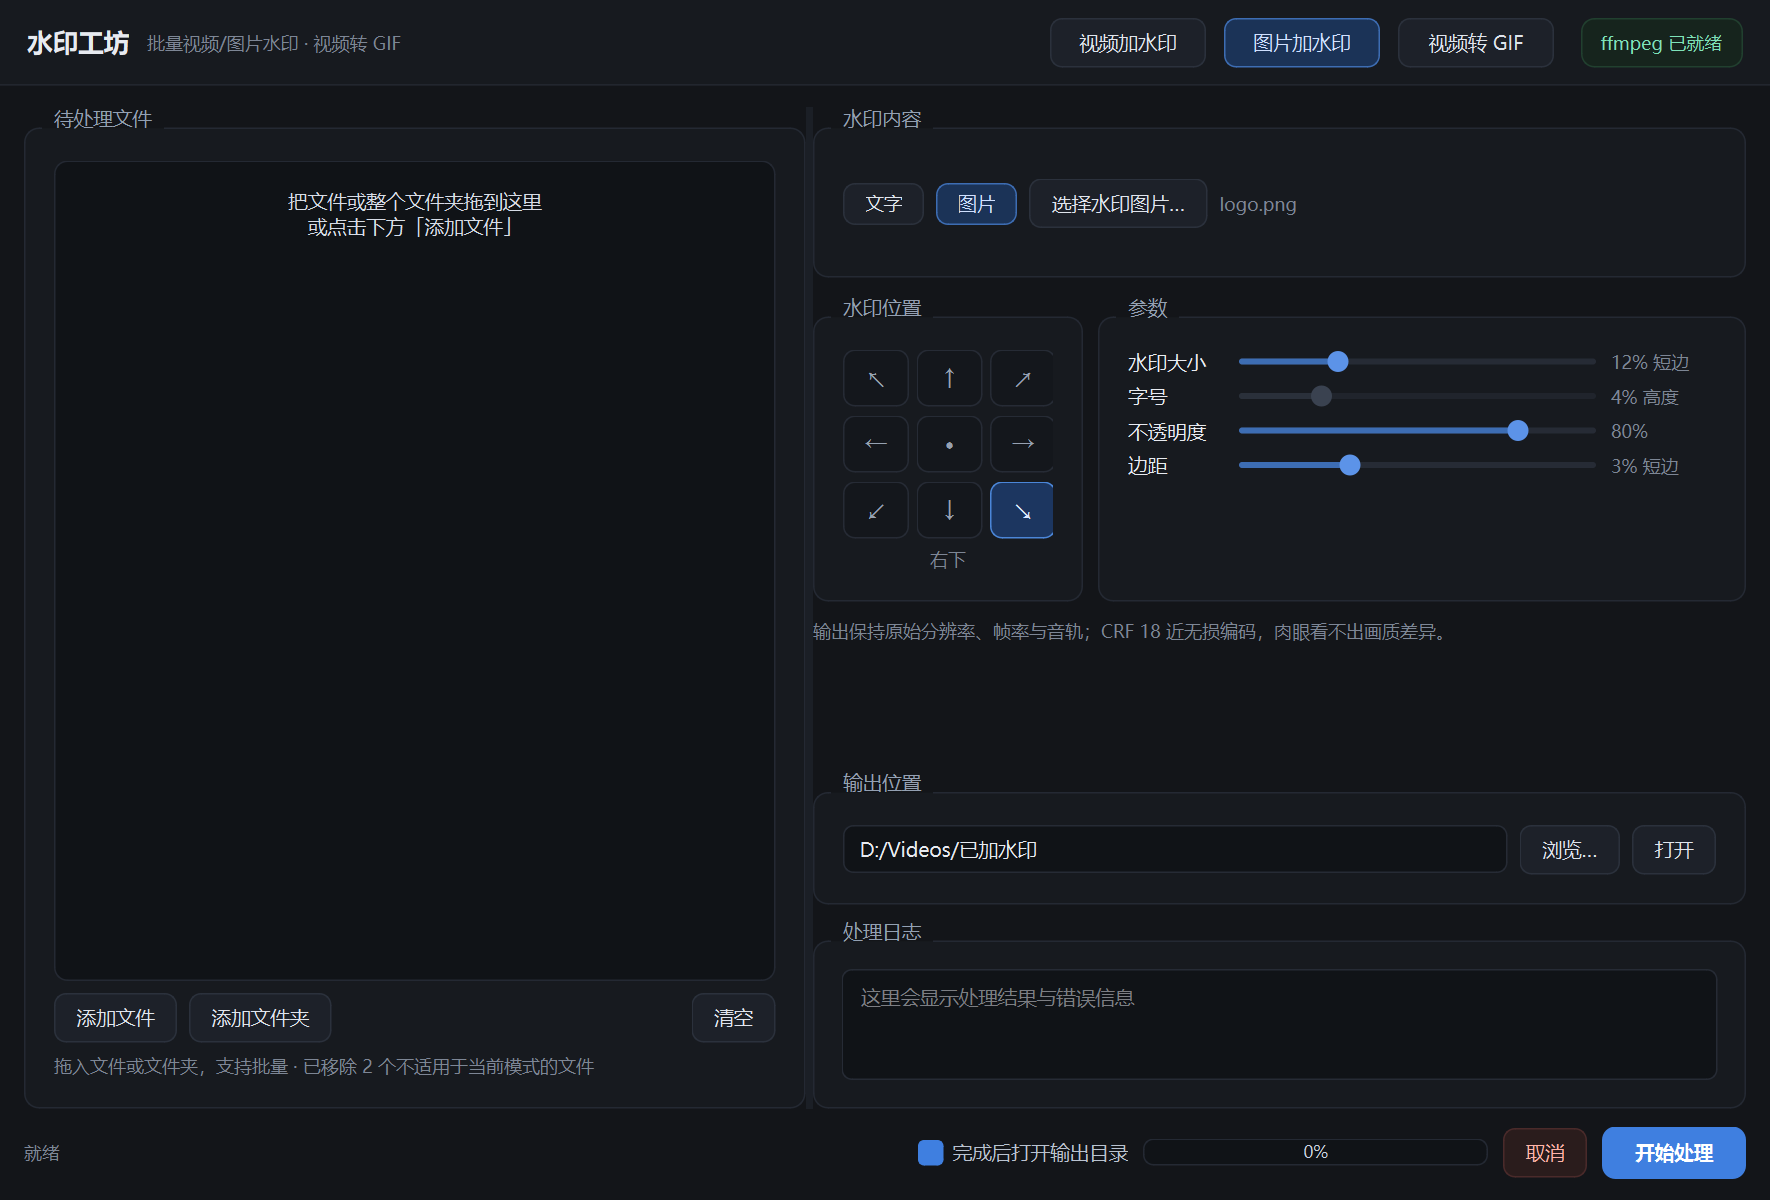
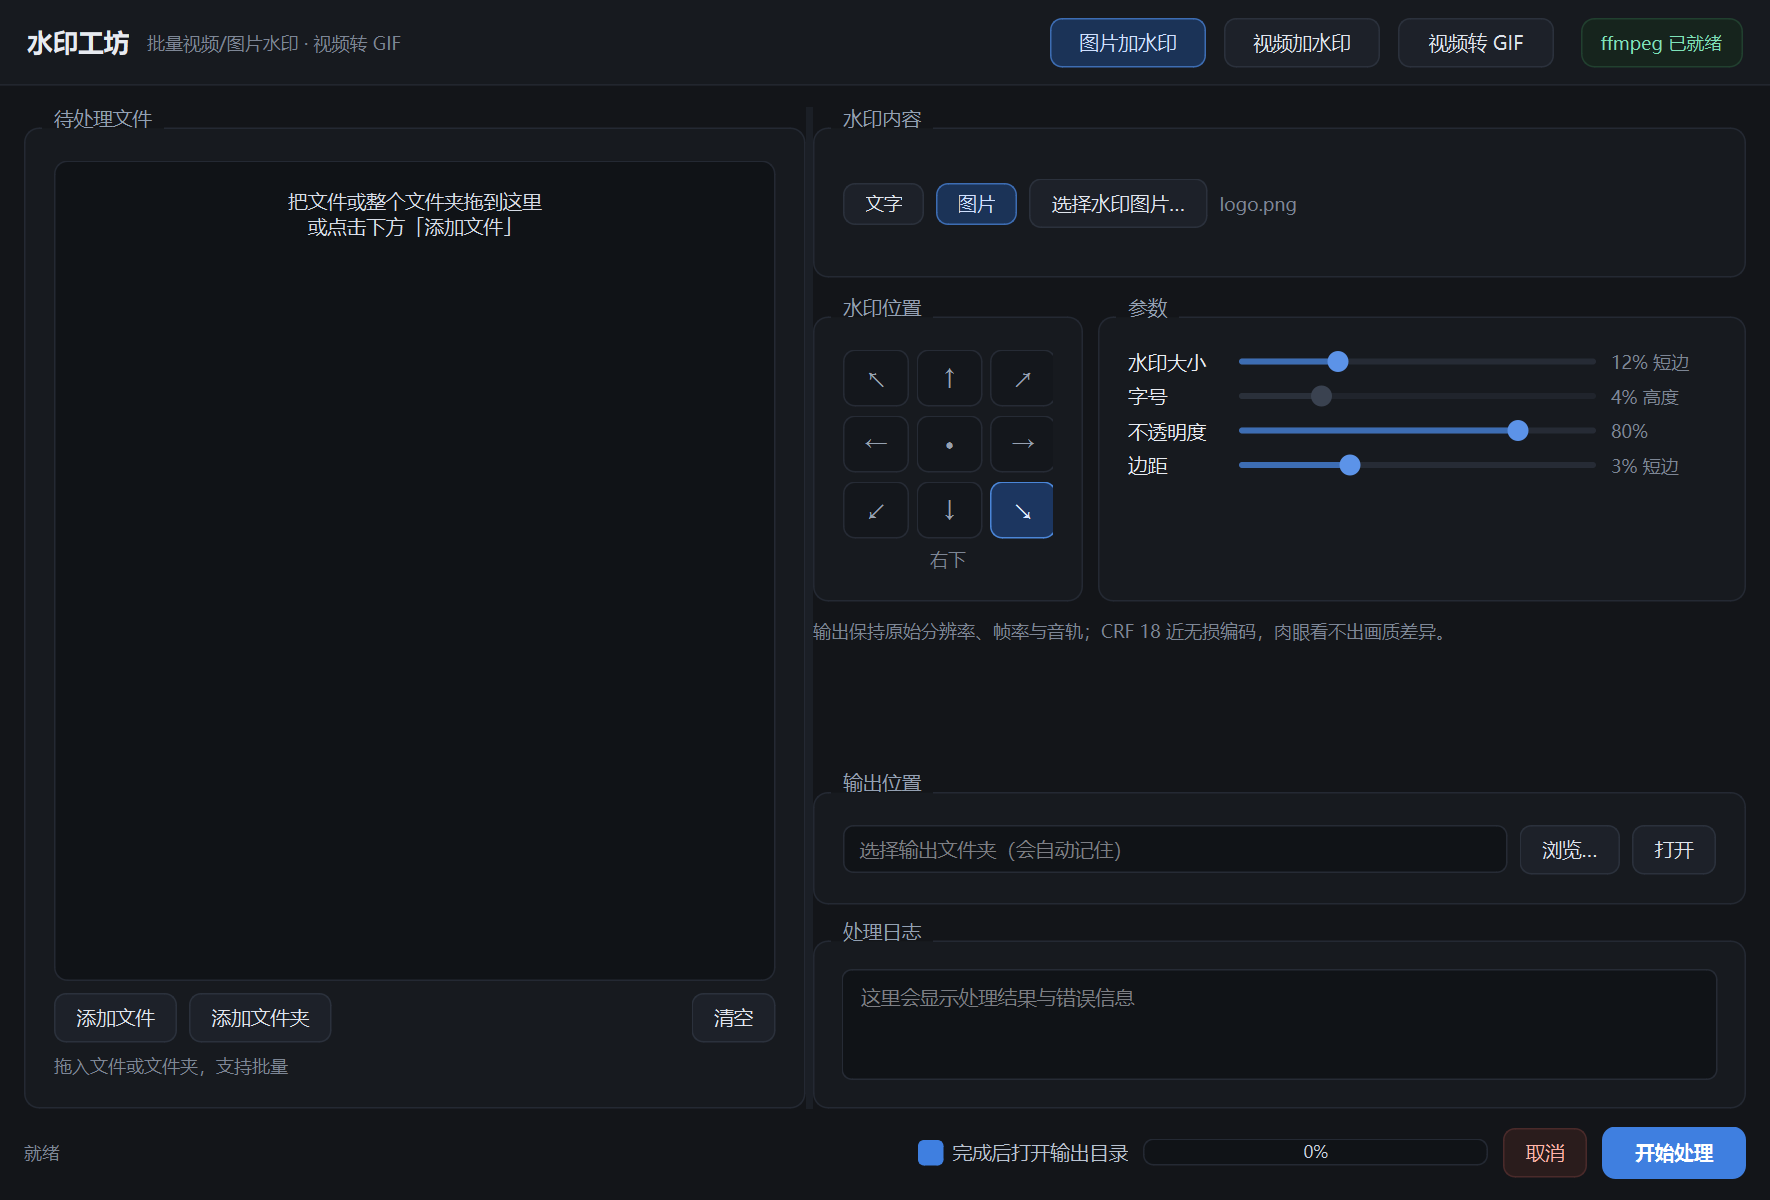
ui: 对调「图片加水印 / 视频加水印」两个模式的位置，刷新截图

Changed region(s): [[0.5904, 0.0, 0.7768, 0.0617], [0.4972, 0.6783, 0.6215, 0.74], [0.1864, 0.8633, 0.3418, 0.8942]]

diff --git a/mtool/ui.py b/mtool/ui.py
@@ -496,7 +496,7 @@ class MainWindow(QMainWindow):
         self.mode_group = QButtonGroup(self)
         self.mode_group.setExclusive(True)
         self.mode_buttons: dict[str, QPushButton] = {}
-        for key, label in (("video_wm", "视频加水印"), ("image_wm", "图片加水印"), ("gif", "视频转 GIF")):
+        for key, label in (("image_wm", "图片加水印"), ("video_wm", "视频加水印"), ("gif", "视频转 GIF")):
             b = QPushButton(label)
             b.setCheckable(True)
             b.setMinimumWidth(104)
